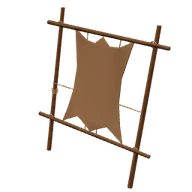
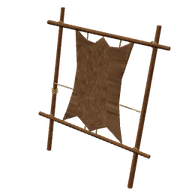
Avance: la piel del raspador, moteada y con su pelo detrás; la cuerda más visible; el zurrón pegado a la espalda y sin costuras que asomen; su pestaña con nombre; iconos v21 otra vez
Claude-Session: https://claude.ai/code/session_011XgxtnkcneaHaswQsQegWh

Changed region(s): [[0.3125, 0.1562, 0.7188, 0.75], [0.6875, 0.5625, 0.75, 0.5938]]

diff --git a/src/juego/estaciones.js b/src/juego/estaciones.js
@@ -313,7 +313,7 @@ function llenoSecadero(dep, id, colgado = []) {
 const RASPADOR = { u: 0.6, abajo: 0.32, arriba: 1.42, alto: 1.6, echa: 0.22, sobra: 0.14 };
 const enBastidor = (u, h, delante = 0) => new THREE.Vector3(u, h, -h * RASPADOR.echa + delante);
 const CUERDA_C = 0xb8a27a;
-function cuerdaEntre(L, a, b, r = 0.006) {
+function cuerdaEntre(L, a, b, r = 0.008) {
   const d = new THREE.Vector3().subVectors(b, a), q = new THREE.Quaternion().setFromUnitVectors(new THREE.Vector3(0, 1, 0), d.clone().normalize());
   const c = a.clone().addScaledVector(d, 0.5);
   L.add(cil(r, r, d.length(), 4), CUERDA_C, c.x, c.y, c.z, new THREE.Matrix4().compose(new THREE.Vector3(), q, new THREE.Vector3(1, 1, 1)), { tex: 'paja', sinSuelo: true });
@@ -347,10 +347,11 @@ function llenoRaspador(dep, id) {
     const geo = new THREE.ExtrudeGeometry(forma, { depth: 0.008, bevelEnabled: true, bevelThickness: 0.003, bevelSize: 0.008, bevelSegments: 1, curveSegments: 4 });
     const c = enBastidor(0, h0, 0.02);
     const color = cual === 'piel' ? 0x8a6d55 : PIEL_LIMPIA;   // por raspar: la cara de la carne, rosada y parda; limpia, pálida
-    L.add(geo, color, c.x, c.y, c.z, { x: -Math.atan(RASPADOR.echa) }, { tex: 'liso', sinSuelo: true, rayas: v => 0.9 + 0.1 * Math.cos(v.x * 13 + v.y * 5) });
+    // (la textura de manchas suaves, la del follaje, da a la piel su moteado: sin ella era un cartón liso)
+    L.add(geo, color, c.x, c.y, c.z, { x: -Math.atan(RASPADOR.echa) }, { tex: 'hojas', sinSuelo: true, rayas: v => 0.84 + 0.1 * Math.cos(v.x * 13 + v.y * 5) + 0.06 * Math.cos(v.y * 31 - v.x * 7) });
     if (cual === 'piel') {   // el pelo, por detrás: la misma piel, un poco más atrás y algo menor (se ve solo desde atrás)
       const d = enBastidor(0, h0, 0.013);
-      L.add(geo.clone(), 0x6a523a, d.x, d.y, d.z, { x: -Math.atan(RASPADOR.echa) }, { tex: 'liso', sinSuelo: true, escala: new THREE.Vector3(0.985, 0.985, 1) });
+      L.add(geo.clone(), 0x7d6346, d.x, d.y, d.z, { x: -Math.atan(RASPADOR.echa) }, { tex: 'hojas', sinSuelo: true, escala: new THREE.Vector3(0.985, 0.985, 1), rayas: v => 0.86 + 0.14 * Math.cos(v.x * 9) * Math.cos(v.y * 6) });
     }
     // las lazadas: de cada agujero del borde a la vara más cercana
     borde.forEach((b, i) => {

diff --git a/src/juego/llevado.js b/src/juego/llevado.js
@@ -273,7 +273,7 @@ function espalda(t, dentro) {
   if (t === 'zurron') {
     // (P9, 13 nov: ya se hace, de 2 pieles limpias y 1 cordel) un morral de piel sin curtir, panzudo y blando: el cuerpo
     // redondeado, plano contra la espalda; la solapa de borde redondo que cae por delante, cerrada con un palito
-    // atravesado en un lazo de cordel; y las costuras de los lados, cosidas a punto largo con el mismo cordel
+    // atravesado en un lazo de cordel
     // el cuerpo y la solapa, del mismo óvalo deformado (casi cuadrado, plano detrás, más lleno abajo); la solapa, la parte
     // de arriba y de delante, algo mayor, como una concha que cae por encima
     const forma = (g, k) => {
@@ -286,7 +286,7 @@ function espalda(t, dentro) {
       g.computeVertexNormals();
       return g;
     };
-    const E = v3(0.14, 0.17, 0.085), Y0 = -0.03, Z0 = 0.03;
+    const E = v3(0.14, 0.17, 0.085), Y0 = -0.03, Z0 = -0.005;   // (pegado a la espalda: plano detrás)
     L.add(forma(new THREE.SphereGeometry(1, 16, 12), 1), PIEL_CRUDA, 0, Y0, Z0, null, { escala: E, tex: 'liso', rayas: v => 0.92 + 0.08 * Math.cos(v.x * 30 + v.y * 12) });
     // la superficie de delante del cuerpo en (x, y): la deformación de forma(), al revés
     const delante = (x, y) => {
@@ -306,10 +306,6 @@ function espalda(t, dentro) {
     const yb = abajo + 0.004, zb = delante(0, yb) + 0.012;
     L.add(cil(0.007, 0.007, 0.06, 5), 'madera', 0, yb - 0.014, zb, { z: Math.PI / 2 }, { tex: 'veta' });   // el palito
     L.add(new THREE.TorusGeometry(0.012, 0.003, 4, 8), FIBRA, 0, yb, zb - 0.002, { x: 0.2 }, { tex: 'liso' });   // su lazo, de la solapa
-    for (const s of [-1, 1]) for (let k = 0; k < 5; k++) {   // las costuras de los lados, a punto largo, bajo la solapa
-      const y = Y0 - 0.03 - k * 0.028, x = s * (E.x * 0.84 - k * k * 0.003);
-      L.add(cajaR(0.006, 0.02, 0.006, 0.001), 0x3a2a1c, x, y, delante(x * 0.9, y) + 0.002, { z: s * 0.35 }, { tex: 'liso' });
-    }
     return { L, alto: 0.36 };
   }
   if (t === 'fardo') {

diff --git a/src/juego/panel_fabricar.js b/src/juego/panel_fabricar.js
@@ -38,7 +38,7 @@ const esc = s => String(s).replace(/[&<>"]/g, c => ({ '&': '&amp;', '<': '&lt;',
 export const DELANTE = 1.2; // m: dónde se pone una estación, delante de ti
 // las pestañas: todo, con las manos y una por cada uso con estación
 const PESTANAS = ['todo', 'manos', ...Object.keys(USOS).filter(u => u !== 'manos')];
-const NOMBRE_PESTANA = { todo: () => tr('Todo'), manos: () => tr('Con las manos'), tallar: () => tr('Piedra de tallar'), fuego: () => tr('Fuego'), banco: () => tr('Banco de tronco'), secar: () => tr('Secadero') };
+const NOMBRE_PESTANA = { todo: () => tr('Todo'), manos: () => tr('Con las manos'), tallar: () => tr('Piedra de tallar'), fuego: () => tr('Fuego'), banco: () => tr('Banco de tronco'), secar: () => tr('Secadero'), raspar: () => tr('Raspador de pieles') };
 // cómo se nombra cada estación en una frase («encima de la piedra de tallar»)
 const LA_ESTACION = { piedra_tallar: () => tr('la piedra de tallar'), hoguera: () => tr('la hoguera'), banco_tronco: () => tr('el banco de trabajo de tronco'),
   acopio_troncos: () => tr('el acopio de troncos'), pila_piedras: () => tr('la pila de piedras'), lenera: () => tr('la leñera'),

diff --git a/pruebas/prueba_fabricar_navegador.py b/pruebas/prueba_fabricar_navegador.py
@@ -328,7 +328,7 @@ try:
         captura(A, f'{SALIDA}/PC_panel_secadero.png')
         A.evaluate(f"{K}.panelFabricar.cerrar()")
 
-        print('El raspador de pieles (P9, 13 nov): uno con una piel por raspar tensada (y otra al pie) y otro con una limpia; su pestaña; y el zurrón a la espalda')
+        print('El raspador de pieles (P9, 13 nov): uno con una piel por raspar tensada (y otra al pie) y otro con una limpia; y su pestaña (el zurrón puesto, en prueba_llevado_navegador.py)')
         RASPADOR = f"""((K, dx, dz) => {{ const f = K.fabCliente, e = Object.values(f.estaciones).find(x => x.tipo === 'piedra_tallar');
           K.__vistas = K.__vistas || {{}};
           K.__vistas['raspador:vista'] = {{ id: 'raspador:vista', tipo: 'raspador', x: e.x + dx, z: e.z + dz, giro: 0, autor: K.enLinea.red.yo, cola: [], deposito: {{ piel: 2 }} }};
@@ -355,15 +355,6 @@ try:
         comprobar('la ficha dice para qué sirve y que hace falta la lasca de sílex', 'zurrón' in t and re.search('lasca', t, re.I) is not None, t[:300])
         captura(A, f'{SALIDA}/PC_panel_raspador.png')
         A.evaluate(f"{K}.panelFabricar.cerrar()")
-        # el zurrón a la espalda (solo para mirarlo, aquí): de espaldas y de lado
-        A.evaluate(f"(() => {{ {K}.inventario.lugares.espalda = {{ tipo: 'zurron', n: 1, dentro: [null, null, null, null] }}; }})()")
-        A.evaluate(f"""(() => {{ const e = {K}.fabCliente.estaciones['raspador:vista']; Object.assign({K}.pj, {{ x: e.x + 1.5, z: e.z + 2.5, rot: Math.PI }}); {K}.cam.yaw = 0; {K}.cam.dist = 2.0; {K}.cam.pitch = 0.2; }})()""")
-        A.wait_for_timeout(1500)
-        comprobar('el zurrón se lleva a la espalda', A.evaluate(f"({K}.inventario.lugares.espalda || {{}}).tipo") == 'zurron')
-        captura(A, f'{SALIDA}/PC_zurron_espalda.png')
-        A.evaluate(f"(() => {{ {K}.cam.yaw = 1.2; {K}.cam.dist = 1.8; {K}.cam.pitch = 0.15; }})()")
-        A.wait_for_timeout(1500)
-        captura(A, f'{SALIDA}/PC_zurron_lado.png')
         print('En el móvil, otro jugador')
         ctxB, B, errB = entrar(nav, 'móvil', {'width': 390, 'height': 844}, True)
         comprobar('el móvil es otro jugador', B.evaluate(f"{K}.enLinea.red.yo") != yo)
@@ -435,9 +426,6 @@ try:
         comprobar('y su panel, sin salirse de lado', B.evaluate("!!document.querySelector('#panelFabricar .fab-pest[data-pestana=\"raspar\"]') && document.getElementById('panelFabricar').scrollWidth <= document.getElementById('panelFabricar').clientWidth + 1 && document.documentElement.scrollWidth <= innerWidth + 1"))
         captura(B, f'{SALIDA}/movil_panel_raspador.png')
         B.evaluate(f"{K}.panelFabricar.cerrar()")
-        B.evaluate(f"(() => {{ {K}.inventario.lugares.espalda = {{ tipo: 'zurron', n: 1, dentro: [null, null, null, null] }}; const e = {K}.fabCliente.estaciones['raspador:vista']; Object.assign({K}.pj, {{ x: e.x + 1.5, z: e.z + 2.5, rot: Math.PI }}); {K}.cam.yaw = 0; {K}.cam.dist = 2.2; {K}.cam.pitch = 0.25; }})()")
-        B.wait_for_timeout(1500)
-        captura(B, f'{SALIDA}/movil_zurron_espalda.png')
 
         print('Con fibra para tres, la carta lo dice; con las manos se hace de una en una (no hay «×3»), en el servidor')
         A.evaluate(f"{K}.accionInventario({{ tipo: 'coger', objeto: 'fibra', cantidad: 9, a: 'mano:izq' }})")
